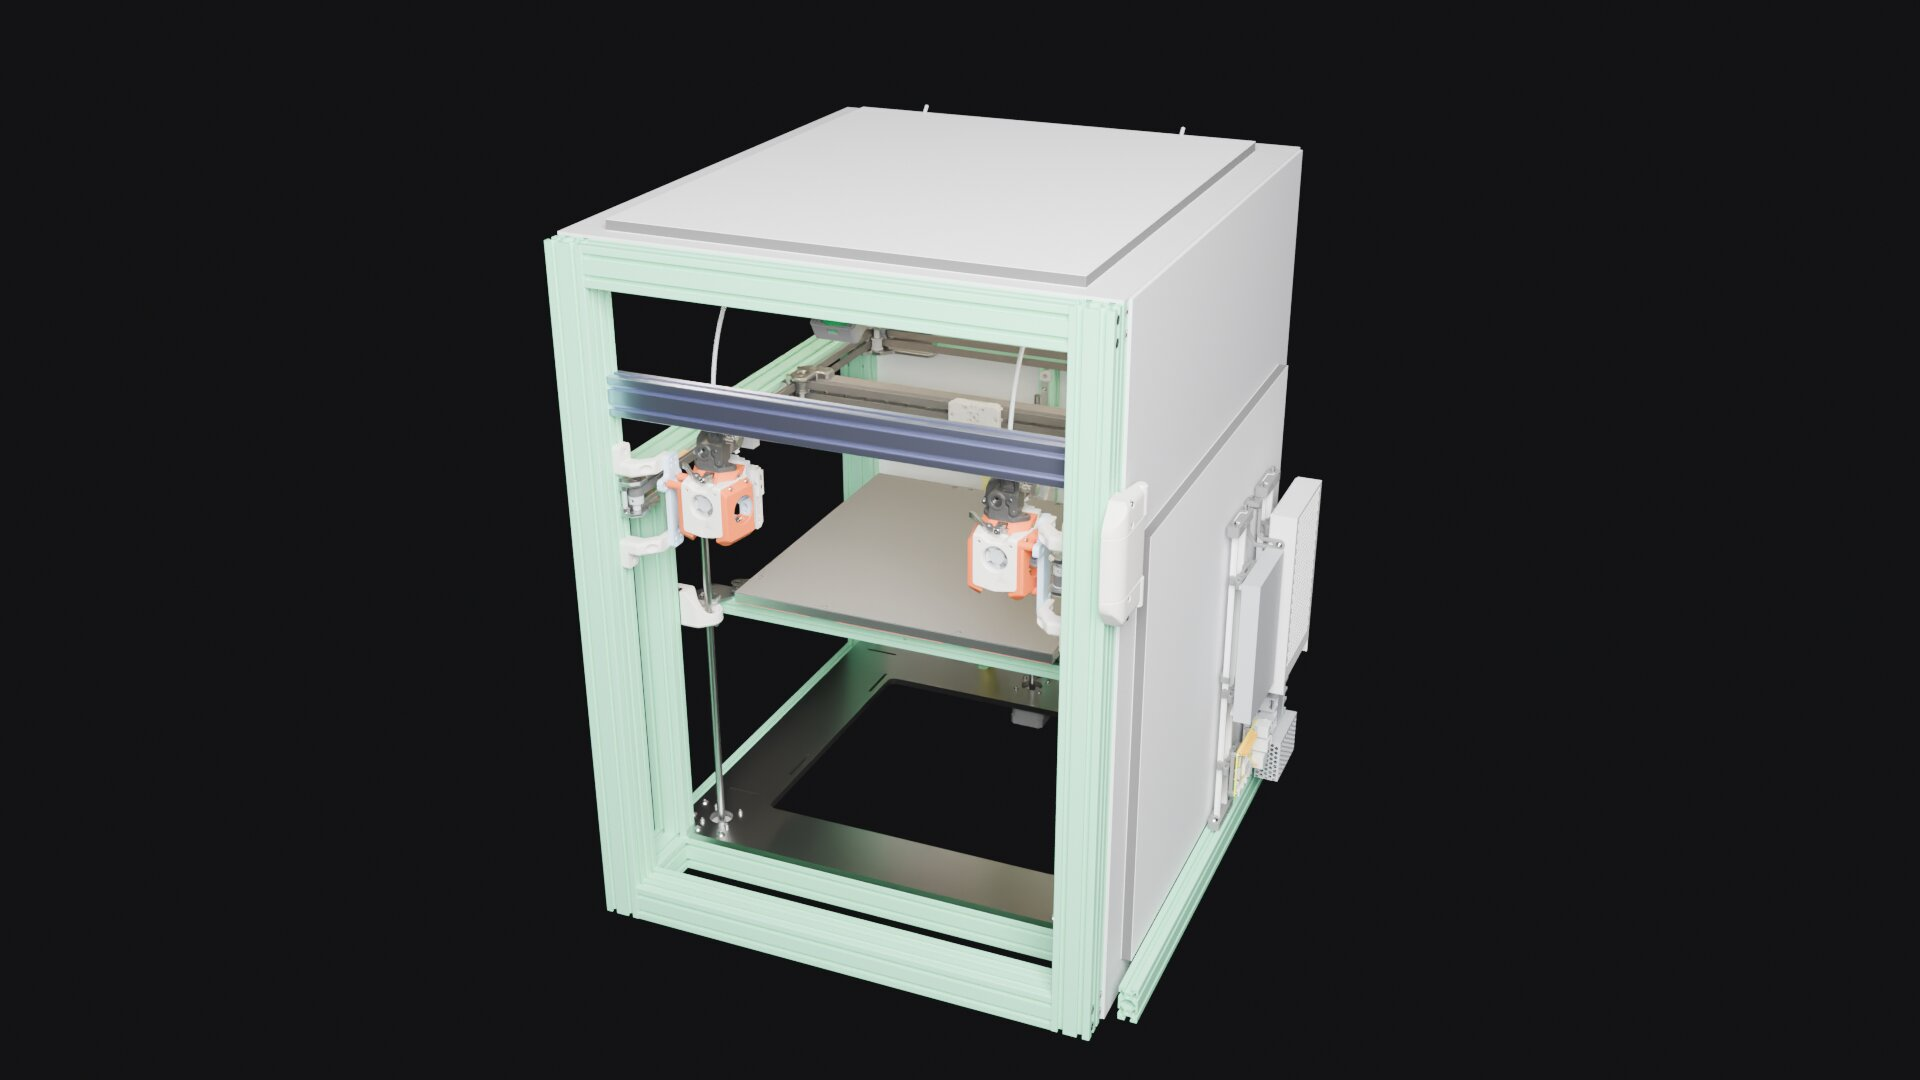
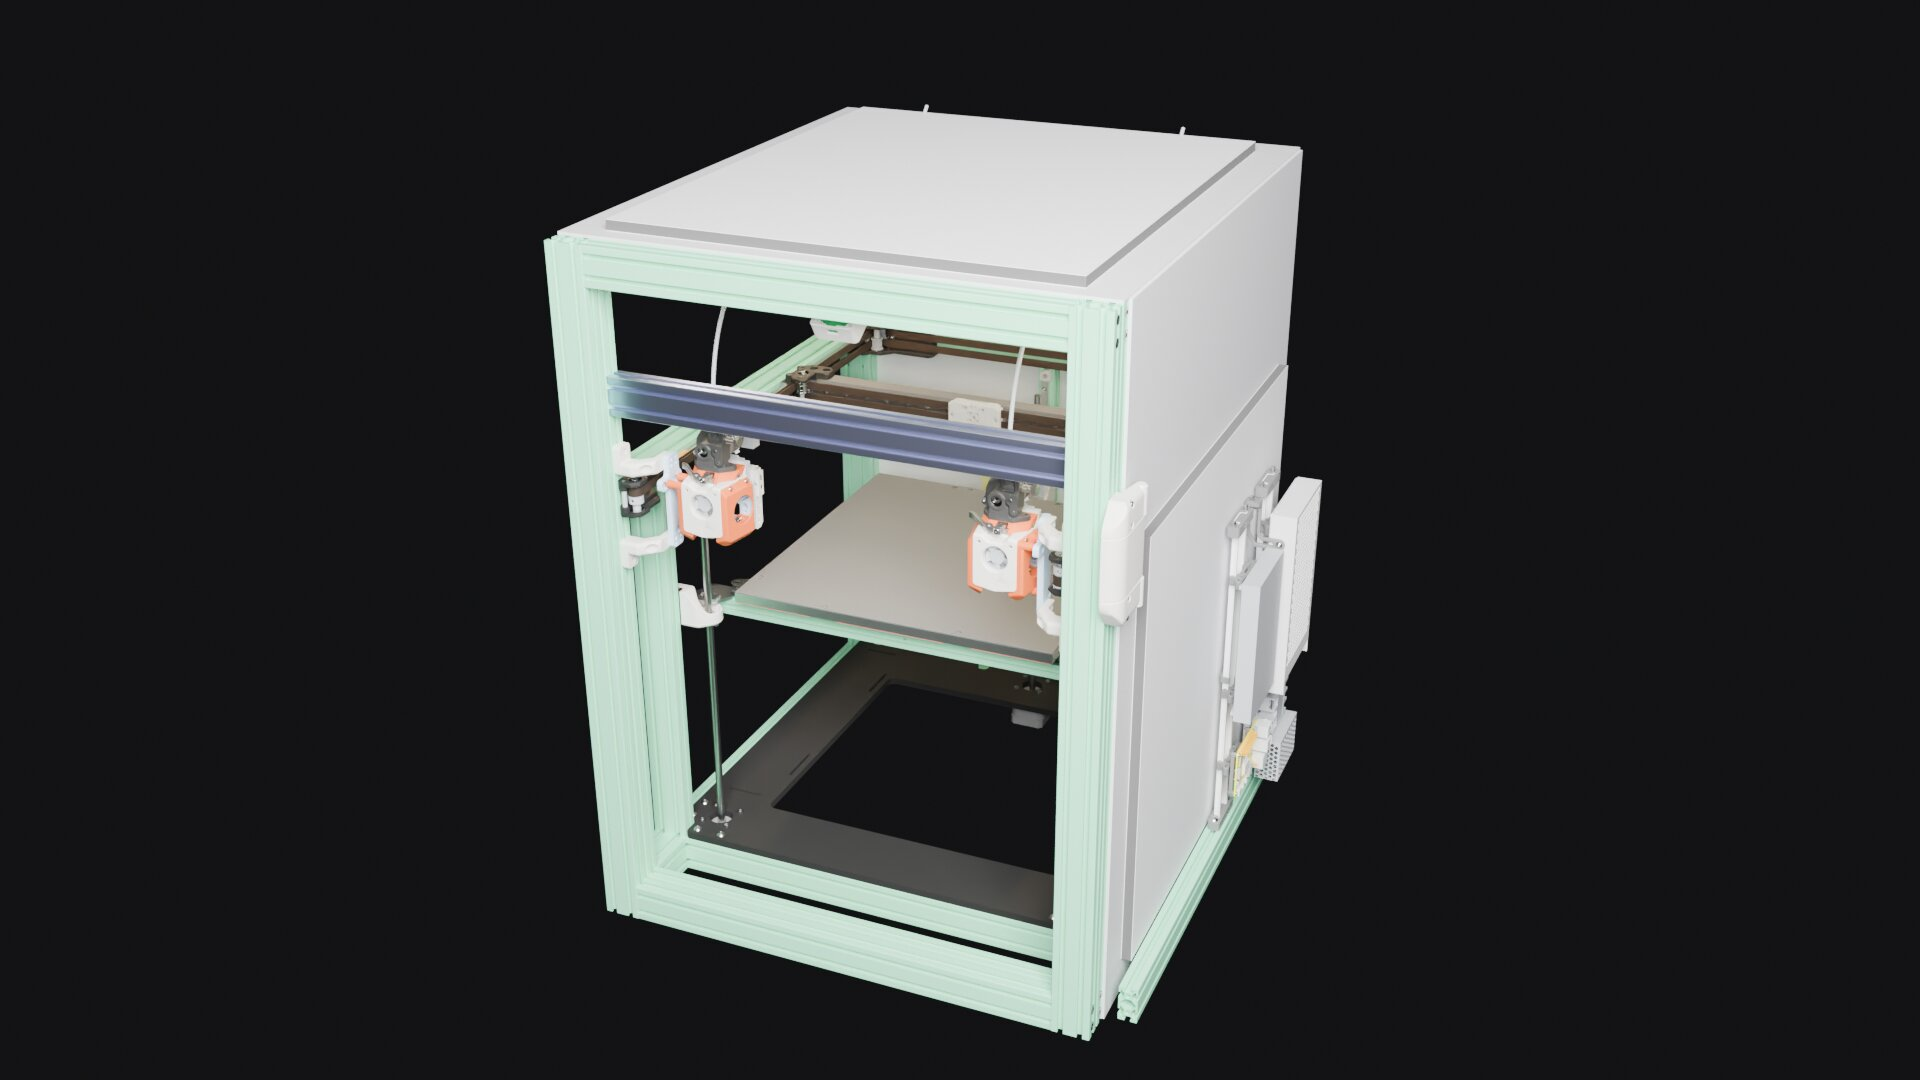
Render colours: backbone, belts, Monolith parts, bearings; reuse reads the current map
User, 2026-11-06: the bed backbone and the Monolith milled parts are matte
black, the belts brown almost black, the bearings chrome-ish. New roles
and rules, each tested on real lite-26 labels. render.py now takes role
colours from the current colours.json, so VT350_REUSE_EXPORT picks up a
colour-only edit (a new rule still needs a full export; documented).
Re-rendered lite-26: 26 frame, 40 printed, 6 accent, 1 backbone, 2 belt,
18 Monolith, 68 bearing solids.

diff --git a/cad/render/render.py b/cad/render/render.py
@@ -57,6 +57,9 @@ def kind_of(mat, label0):
     if "ptfe" in m: return "ptfe"
     if "felt" in label0.lower(): return "felt"
     return "plastic"
+# role colours: the CURRENT colours.json (so a colour-only edit re-renders from an old export), else the export's copy
+try: ROLES = dict(scene_j.get("roles", {}), **colours.load()["roles"])
+except Exception as e: print("colours.json not loaded:", e); ROLES = scene_j.get("roles", {})
 for key, b in scene_j["buckets"].items():
     path = os.path.join(SRC, key + ".stl")
     if not os.path.exists(path): continue
@@ -64,7 +67,7 @@ for key, b in scene_j["buckets"].items():
     ob = bpy.context.selected_objects[0]; ob.name = key
     kind = "emitter" if key == "LED_emitter" else "glow" if key == "clash" else kind_of(b["material"], (b["labels"] or [""])[0])
     col = tuple(b["color"]); rough = None
-    role = scene_j.get("roles", {}).get(b.get("role") or "")
+    role = ROLES.get(b.get("role") or "")
     if role:                                         # colour map role (#38): sRGB hex -> linear, its own finish
         col = colours.linear(role["hex"]); kind = role.get("kind", "plastic"); rough = role.get("roughness")
     elif kind in ("aluminium", "steel"): col = tuple(min(1, max(0.55, c)) for c in col)

diff --git a/cad/render/test_colours.py b/cad/render/test_colours.py
@@ -73,6 +73,13 @@ class TheCommittedMap(unittest.TestCase):
         self.assertEqual(co.role_of(m, "Camera housing front (Printables 305428, public domain)",
                                     "Enclosure extras (lite-16)", "Default"), "printed")
         self.assertIsNone(co.role_of(m, "Nocturne lens", "Enclosure extras (lite-16)", "Default"))
+        self.assertEqual(co.role_of(m, "GT2 9mm belt, lower (Monolith 2WD)", "4040-350x350x250 Voron Trident v4 v33", "Default"), "belt")
+        for lab in ("VC9-JLA", "VT9-RRB", "VT9-FIA001"):
+            self.assertEqual(co.role_of(m, lab, "4040-350x350x250 Voron Trident v4 v33 / XY left: _XY_left", "Aluminum-6061-T6"), "monolith")
+        for lab in ("695 W5 bearing005", "F695 flanged bearing022", "_MR148ZZ Outer Ring (1)", "_MR148ZZ Ball013"):
+            self.assertEqual(co.role_of(m, lab, "x", "Steel-Generic"), "bearing", lab)
+        self.assertIsNone(co.role_of(m, "D5x36mm pin001", "x", "Steel-Generic"))
+        self.assertEqual(co.role_of(m, "backbone-350 v2", "4040-350x350x250 Voron Trident v4 v33", "Steel-Generic"), "backbone")
 
 
 if __name__ == "__main__":

diff --git a/cad/README.md b/cad/README.md
@@ -89,7 +89,7 @@ last 10 runs, one per day for 30 days, and one per month for 12 months
 ## Renders (lite-26, in colour)
 
 Blender Cycles renders of `vt350-lite-26.FCStd` + `vt350-ebox.FCStd`, made with `render/render_full.sh` (below), in the
-chosen colours (#38): seafoam green powder-coated frame, PET-GF white printed parts, PET-GF orange accents. They are
+chosen colours (#38): seafoam green powder-coated frame, PET-GF white printed parts, PET-GF orange accents, matte black backbone and Monolith parts, brown belts, chrome bearings. Photo references for the rest: #75. They are
 re-rendered when worth it, not on every pass. The lite-16 renders (model colours) are in git history.
 
 | What the Obico camera sees (LED strips only, 3800 K) | Outside, front 3/4 |
@@ -101,7 +101,7 @@ re-rendered when worth it, not on every pass. The lite-16 renders (model colours
 ```bash
 cad/render/render_full.sh                 # lite-26 + vt350-ebox.FCStd, 128 samples
 cad/render/render_full.sh 27 256          # another lite-N, more samples
-VT350_REUSE_EXPORT=<run>/export cad/render/render_full.sh   # after changing colours.json only: skip the export
+VT350_REUSE_EXPORT=<run>/export cad/render/render_full.sh   # changed only a role's colour/finish: skip the export (a new RULE needs a full run)
 ```
 
 - **What it does:** runs the FreeCAD GUI export (the window opens and closes by itself; click **Wait** if GNOME asks), then Blender Cycles on the RTX 2070 (OPTIX).
@@ -113,6 +113,10 @@ VT350_REUSE_EXPORT=<run>/export cad/render/render_full.sh   # after changing col
   | frame extrusions | seafoam green powder coat |
   | printed parts (ShapeMaterial ABS) | PET-GF white |
   | Voron `[a]_` accents | PET-GF orange |
+  | bed backbone | matte black |
+  | GT2 belts | brown, almost black |
+  | LDO Monolith milled parts (`VC9-*`, `VT9-*`) | matte black |
+  | ball bearings (695, F695, MR148ZZ) | chrome |
 
   Parts no rule matches keep the model's colour. `export.log` lists every `Default`-material part left uncoloured. Add a rule for any that are printed.
 - **Tests:** `render/colours.py` holds the shared rule matcher, tested by `render/test_colours.py` (CI `render-colours`).
